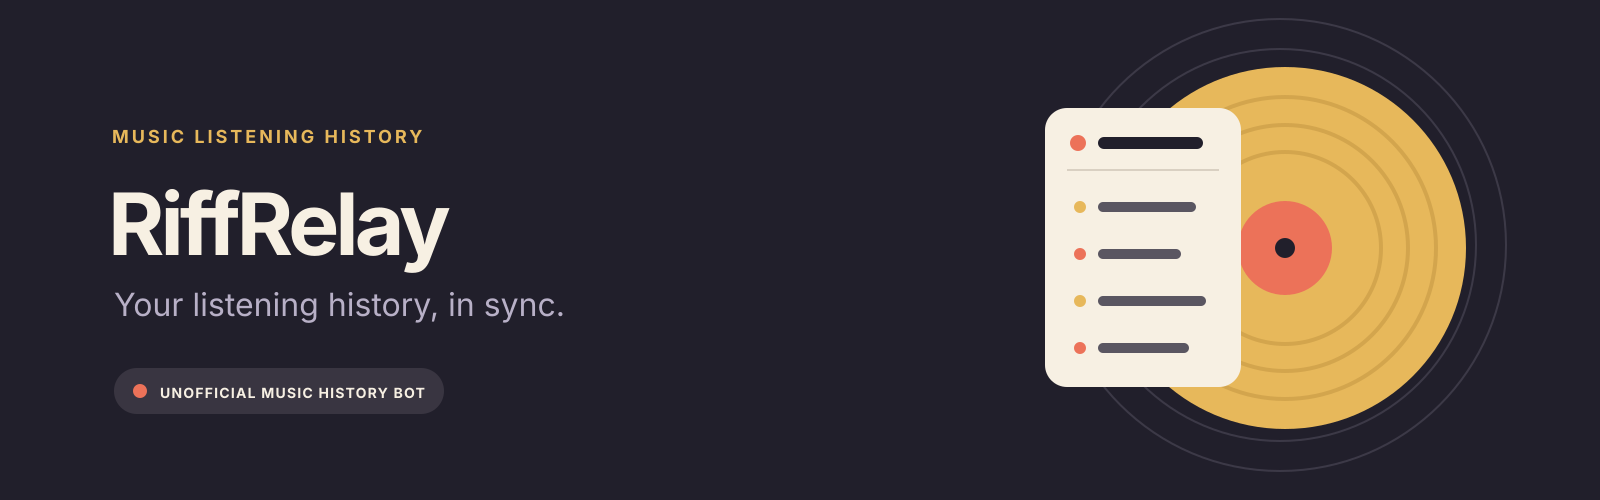
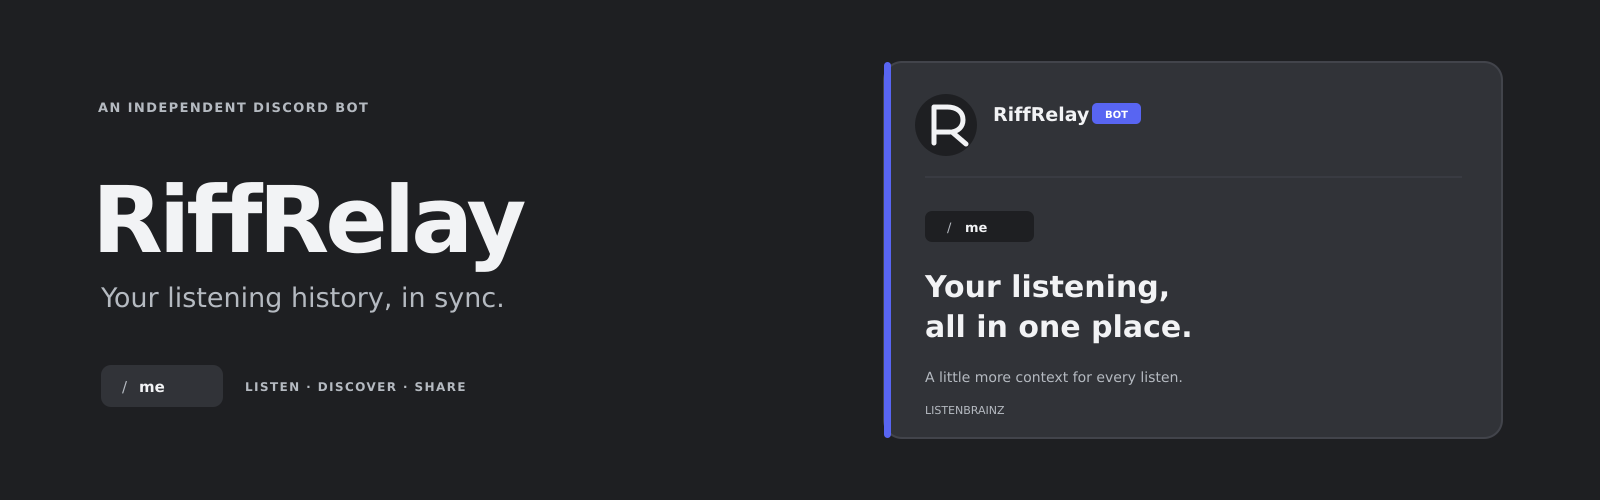
chore: update branding (less Ai like)

diff --git a/README.md b/README.md
@@ -1,37 +1,71 @@
-# RiffRelay brand kit
+# RiffRelay visual identity
 
-**RiffRelay** is a provisional working name for an independent music-listening-history bot.
-
-**Tagline:** Your listening history, in sync.
+RiffRelay is an independent Discord bot for exploring ListenBrainz listening
+history. The identity takes cues from dark Discord bot interfaces: deep
+charcoal surfaces, crisp light type, and violet command accents. It should feel
+like a capable bot, not a record label or streaming-service clone.
 
 ## Assets
 
-- `assets/riffrelay-icon.svg` / `.png` — app icon and Discord avatar (PNG: 512 × 512).
-- `assets/riffrelay-wordmark.svg` / `.png` — horizontal logo for docs and profiles (PNG: 1120 × 280).
-- `assets/riffrelay-banner.svg` / `.png` — repository and social banner (PNG: 1600 × 500).
+| Asset | Size | Use |
+|---|---:|---|
+| `assets/riffrelay-icon.svg` / `.png` | 512 × 512 | App icon and Discord avatar |
+| `assets/riffrelay-wordmark.svg` / `.png` | 1120 × 280 | Docs, profiles, and narrow headers |
+| `assets/riffrelay-banner.svg` / `.png` | 1600 × 500 | Repository and wide social banner |
+| `assets/riffrelay-social-card.svg` / `.png` | 1200 × 630 | Open Graph and social previews |
 
-SVG files are the editable sources. Keep the icon's record-and-track-list silhouette intact at small sizes, and use the wordmark or banner when there is room for the name and tagline. The banner is designed for a dark background; do not stretch assets out of proportion.
+SVG is the editable source of truth. PNGs are raster exports at the sizes shown.
+Keep each asset at its native aspect ratio. The R ends cleanly, with no trailing
+mark or status indicator. Do not add the old orange tail, green dots, glows,
+gradients, or decorative player mockups. Use slash-command and embed-like cues
+sparingly. Do not use Discord's logo or copy its full interface.
 
-## AI-generated content notice
+The artwork is composed from editable vector paths and typeset text, rather
+than image-generation-model output or stock imagery. Typeface names are
+specified as system stacks so no font files need to be redistributed.
 
-The icon, wordmark, and banner artwork in this repository were AI-generated
-and then adapted for the RiffRelay project. They are unofficial project assets,
-not artwork or marks provided by ListenBrainz, MusicBrainz, or another service.
+## Earlier references
+
+These were reviewed during the earlier editorial exploration. The current
+direction shifts to dark bot-interface cues; none of these logos, layouts, or
+artwork are copied:
+
+- [Soho Radio rebrand](https://www.itsnicethat.com/articles/wonderhood-design-soho-radio-graphic-design-project-201025):
+  a consistent identity can frame varied listening histories.
+- [Dublab identity proposal](https://zeke.studio/work/dublab/):
+  sound can be expressed through a considered system across print and digital.
+- [NTS About](https://www.nts.live/about):
+  an archive can feel cultural and editorial rather than like a stats dashboard.
+
+## Art direction
+
+- **Surface:** near-black canvas and raised charcoal panels, with clean spacing
+  and clear message hierarchy.
+- **Voice:** helpful and relaxed, like a well-made bot response; never a fake
+  Discord screenshot or streaming-service interface.
+- **Signal:** violet marks the RiffRelay identity and command emphasis. Avoid
+  presence dots, online labels, and other status indicators.
+- **Mark:** a bright custom `R` with a clean terminal. Keep the letter readable
+  at avatar size; no orange route, record, equalizer, or music-note.
 
 ## Palette
 
 | Color | Hex | Use |
-| --- | --- | --- |
-| Cabinet | `#211F2B` | Primary dark background |
-| Paper | `#F7F0E3` | Light surfaces and primary text |
-| Sleeve coral | `#EC7259` | Record label and accents |
-| Vinyl gold | `#E7B85B` | Record and highlights |
-| Dusty lilac | `#B8B0C7` | Secondary text |
-
-The mark pairs a record with a filed track list to signal music and listening history—not a medical monitor or a service logo.
+|---|---|---|
+| Midnight | `#1E1F22` | Main background |
+| Panel | `#313338` | Embed and raised surface |
+| Divider | `#42444B` | Panel border and separators |
+| Primary text | `#F2F3F5` | Headings and key content |
+| Secondary text | `#B5BAC1` | Supporting copy |
+| Relay violet | `#5865F2` | Command emphasis |
 
 ## Name and affiliation
 
-The name is a working name, not a cleared brand. A GitHub repository-name search returned no exact `RiffRelay` matches when checked, but that is only a limited repository search—not a trademark, domain, or broader availability check. No legal clearance is implied; check relevant registries and seek qualified advice before commercial use.
+RiffRelay is a working name, not a cleared brand. A repository-name search is
+not trademark, domain, or broader availability clearance. Check relevant
+registries and seek qualified advice before commercial use.
 
-RiffRelay is independent and is not affiliated with, endorsed by, or sponsored by ListenBrainz, MusicBrainz, or any other music service. Do not use third-party names or marks in a way that suggests otherwise.
+RiffRelay is independent and is not affiliated with, endorsed by, or sponsored
+by ListenBrainz, MusicBrainz, or any other music service. Describe those
+services factually; do not use their names or marks in a way that suggests
+otherwise.
